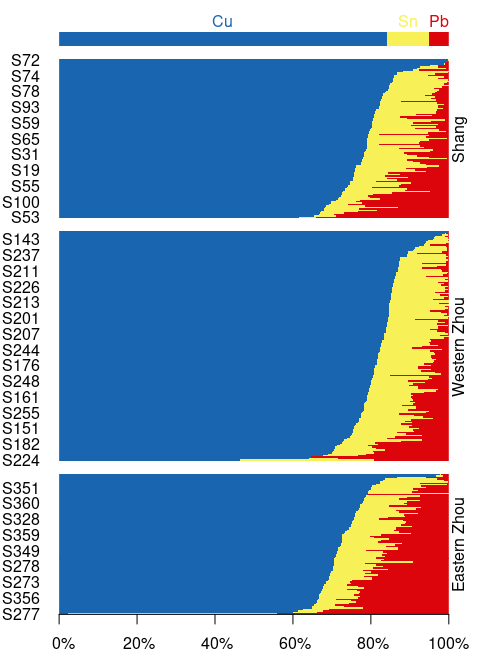
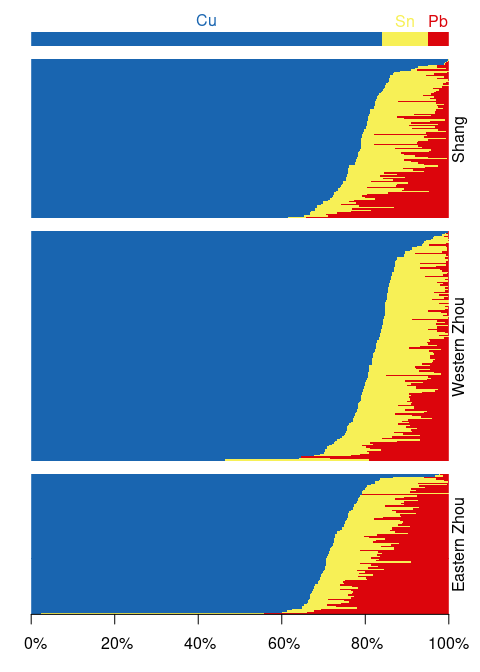
Improve barplot labels

diff --git a/NEWS.md b/NEWS.md
@@ -1,5 +1,6 @@
 # nexus 0.4.0.9000
 ## Enhancements
+* `barplot()` gained a new `names` argument to hide/display row names.
 * `mean()` and `condense()` gained two new arguments `ignore_na` and `ignore_zero`.
 * `as.data.frame()` methods for `LogRatio` and `GroupedLogRatio` class return a `data.frame` with variable labels.
 

diff --git a/README.md b/README.md
@@ -124,7 +124,7 @@ coda <- group(coda, by = bronze$dynasty)
 major <- coda[, is_element_major(coda)]
 
 ## Compositional barplot
-barplot(major, order_rows = "Cu", border = NA, space = 0)
+barplot(major, order_rows = "Cu", names = FALSE, border = NA, space = 0)
 ```
 
 ![](man/figures/README-barplot-1.png)<!-- -->
